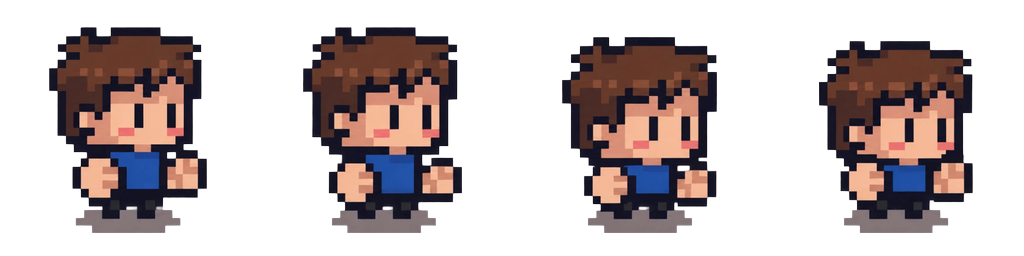
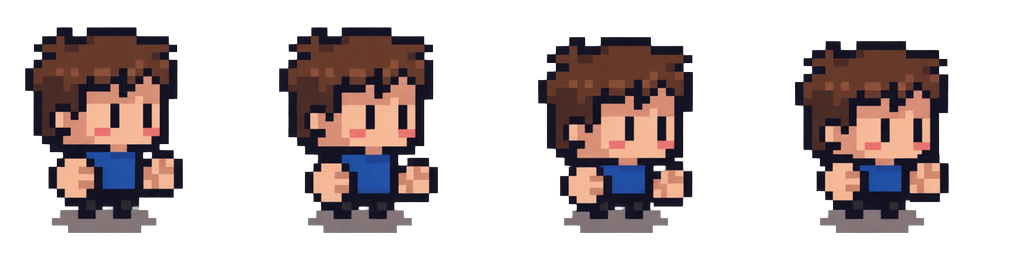
Add 3-hit melee combo (jab, jab, big swing) with its sprite sheet
Claude-Session: https://claude.ai/code/session_01CTycXSNtqEpKLb11niWLUo

diff --git a/quiz-game/server/game.js b/quiz-game/server/game.js
@@ -1,7 +1,7 @@
 // 게임 상태와 규칙. 네트워크(소켓)는 모르고, index.js가 입력을 넣고 snapshot()을 방송한다.
 // 모든 판정(이동, 충돌, 공격, 구역, 점수)은 서버가 한다.
 
-import { MAP, PHASE, READ_SEC, WAIT, zoneAt, ZONES } from '../shared/constants.js';
+import { COMBO_RESET_SEC, MAP, PHASE, READ_SEC, WAIT, zoneAt, ZONES } from '../shared/constants.js';
 
 const KNOCK_DECAY = 12; // 밀림 속도 감쇠(1/s). 총 밀림 거리 = 처음 속도 / 감쇠
 const ATTACK_ANIM_SEC = 0.25;
@@ -68,7 +68,7 @@ export class Game {
       input: { mx: 0, my: 0, run: false },
       hp: cfg.hp, stunned: false, stunUntil: 0, invUntil: 0,
       runGauge: cfg.runGauge, exhausted: false, running: false, moving: false,
-      nextAttackAt: 0, attackUntil: 0,
+      nextAttackAt: 0, attackUntil: 0, comboStep: 0, lastAttackAt: -99,
       score: 0, zone: null, zoneSince: 0,
       ai: { nextThink: 0, mx: 0, my: 0 },
     };
@@ -181,6 +181,12 @@ export class Game {
     if (this.t < p.nextAttackAt || p.stunned) return;
     if (p.running && !a.canAttackWhileRunning) return;
 
+    // 콤보: 잽 → 잽 → 큰 휘두르기. 일정 시간 공격하지 않으면 1타부터 다시
+    const combo = a.combo;
+    const step = combo && this.t - p.lastAttackAt <= COMBO_RESET_SEC ? p.comboStep : 0;
+    const m = combo?.[step] || {};
+    const range = a.range * (m.range ?? 1);
+
     let dx, dy;
     const ax = Number(aim?.x) || 0, ay = Number(aim?.y) || 0;
     if (Math.hypot(ax, ay) > 0.2) {
@@ -189,7 +195,7 @@ export class Game {
       let best = null, bestD = Infinity; // 자동 조준: 사거리 안에서 가장 가까운 상대
       for (const o of this._enemies(p)) {
         const d = Math.hypot(o.x - p.x, o.y - p.y);
-        if (d <= a.range && d < bestD) { best = o; bestD = d; }
+        if (d <= range && d < bestD) { best = o; bestD = d; }
       }
       if (best) { dx = (best.x - p.x) / bestD; dy = (best.y - p.y) / bestD; }
       else { dx = p.face; dy = 0; } // 대상이 없으면 바라보는 방향으로 헛손질
@@ -197,6 +203,8 @@ export class Game {
     if (Math.abs(dx) > 0.15) p.face = dx > 0 ? 1 : -1;
     p.nextAttackAt = this.t + a.interval;
     p.attackUntil = this.t + ATTACK_ANIM_SEC;
+    p.lastAttackAt = this.t;
+    p.comboStep = combo ? (step + 1) % combo.length : 0;
 
     // 맞는 대상 찾기
     let target = null, tDist = Infinity;
@@ -206,23 +214,23 @@ export class Game {
       if (along <= 0) continue;
       if (a.type === 'melee') {
         const d = Math.hypot(vx, vy);
-        if (d <= a.range && along / d >= 0.5 && d < tDist) { target = o; tDist = d; } // 전방 ±60도
+        if (d <= range && along / d >= 0.5 && d < tDist) { target = o; tDist = d; } // 전방 ±60도
       } else {
         const perp = Math.abs(vx * dy - vy * dx);
-        if (along <= a.range && perp <= o.cfg.radius && along < tDist) { target = o; tDist = along; }
+        if (along <= range && perp <= o.cfg.radius && along < tDist) { target = o; tDist = along; }
       }
     }
-    this.events.push({ e: 'atk', id: p.id, dx: r2(dx), dy: r2(dy), kind: a.type, len: r2(target ? tDist : a.range) });
-    if (target) this._hit(target, p, dx, dy);
+    this.events.push({ e: 'atk', id: p.id, dx: r2(dx), dy: r2(dy), kind: a.type, step, len: r2(target ? tDist : range) });
+    if (target) this._hit(target, p, dx, dy, m.dmg ?? 1, m.knockback ?? 1);
   }
 
-  _hit(target, attacker, dx, dy) {
+  _hit(target, attacker, dx, dy, dmgMul = 1, knockMul = 1) {
     const a = attacker.cfg.attack;
     if (this.t < target.invUntil) { // 무적: 피해도 밀림도 없음
       this.events.push({ e: 'block', id: target.id, x: r2(target.x), y: r2(target.y) });
       return;
     }
-    const dmg = target.stunned ? 0 : a.dmgMin + Math.floor(Math.random() * (a.dmgMax - a.dmgMin + 1));
+    const dmg = target.stunned ? 0 : Math.round((a.dmgMin + Math.floor(Math.random() * (a.dmgMax - a.dmgMin + 1))) * dmgMul);
     if (dmg > 0) {
       target.hp = Math.max(0, target.hp - dmg);
       if (target.hp === 0) {
@@ -234,8 +242,8 @@ export class Game {
     }
     // 기절(쓰러진) 상태에서는 밀리지 않음. 그 외에는 총 거리 = knockback (BU)
     if (!target.stunned) {
-      target.kx += dx * a.knockback * KNOCK_DECAY;
-      target.ky += dy * a.knockback * KNOCK_DECAY;
+      target.kx += dx * a.knockback * knockMul * KNOCK_DECAY;
+      target.ky += dy * a.knockback * knockMul * KNOCK_DECAY;
     }
     this.events.push({ e: 'hit', id: target.id, by: attacker.id, dmg, x: r2(target.x), y: r2(target.y) });
   }

diff --git a/quiz-game/src/world.js b/quiz-game/src/world.js
@@ -43,7 +43,11 @@ export class WorldScene extends Phaser.Scene {
     this.zoneTexts = [];
 
     for (const s of SPRITES) {
+      SPRITE.attackSteps.forEach((st, i) => {
+        this.anims.create({ key: `${s}-atk${i}`, frames: this.anims.generateFrameNumbers(`${s}-combo`, { frames: st.frames }), frameRate: st.fps, repeat: 0 });
+      });
       for (const [m, c] of Object.entries(SPRITE.motions)) {
+        if (!c.fps) continue; // combo는 위에서 단계별로 만들었음
         this.anims.create({
           key: `${s}-${m}`,
           frames: this.anims.generateFrameNumbers(`${s}-${m}`, { start: 0, end: c.frames - 1 }),
@@ -91,8 +95,9 @@ export class WorldScene extends Phaser.Scene {
     const now = performance.now();
     const v = this.views.get(e.id);
     if (e.e === 'atk' && v) {
-      v.sprite.play(`${v.p.s}-punch`, false);
-      v.punchUntil = now + 260;
+      const step = Math.min(e.step || 0, SPRITE.attackSteps.length - 1);
+      v.sprite.play(`${v.p.s}-atk${step}`, false);
+      v.punchUntil = now + SPRITE.attackSteps[step].ms;
       const x0 = v.x, y0 = v.y - 0.55 * BU; // 가슴 높이에서 나가는 효과
       const len = e.len * BU;
       const line = this.add.graphics().setDepth(5000);
@@ -100,7 +105,8 @@ export class WorldScene extends Phaser.Scene {
         line.lineStyle(5, 0xffd54a, 1).lineBetween(x0, y0, x0 + e.dx * len, y0 + e.dy * len);
       } else {
         const a = Math.atan2(e.dy, e.dx);
-        line.lineStyle(7, 0xffffff, 1).beginPath().arc(x0, y0, 0.9 * BU, a - 0.7, a + 0.7).strokePath();
+        const big = step === 2; // 3타 휘두르기는 더 크고 굵은 궤적
+        line.lineStyle(big ? 12 : 7, 0xffffff, 1).beginPath().arc(x0, y0, (big ? 1.3 : 0.9) * BU, a - (big ? 1.0 : 0.7), a + (big ? 1.0 : 0.7)).strokePath();
       }
       this.tweens.add({ targets: line, alpha: 0, duration: 140, onComplete: () => line.destroy() });
     } else if (e.e === 'hit' && v) {

diff --git a/quiz-game/shared/constants.js b/quiz-game/shared/constants.js
@@ -36,13 +36,20 @@ export function zoneAt(type, x, y) {
 // 스프라이트 모션별 프레임 수 (tools/build_sheets.py 결과와 일치해야 함)
 export const SPRITE = {
   cell: 256,
-  anchor: [128, 232], // 셀 안의 발(그림자) 위치
+  anchor: [104, 232], // 셀 안의 발(그림자) 위치 (오른쪽에 주먹이 뻗을 공간을 남기려고 왼쪽으로 치우침)
   motions: {
     idle: { frames: 4, fps: 6, yoyo: true, loop: true },
     walk: { frames: 7, fps: 12, loop: true },
     run: { frames: 7, fps: 15, loop: true },
-    punch: { frames: 7, fps: 28, loop: false },
+    combo: { frames: 8 }, // 공격 시트: 아래 attackSteps로 나눠서 재생
   },
+  // 근접 3타 콤보: 잽 → 잽 → 반대 주먹으로 크게 휘두르기 (combo 시트의 프레임 번호)
+  attackSteps: [
+    { frames: [0, 1], fps: 12, ms: 260 },
+    { frames: [2, 3], fps: 12, ms: 260 },
+    { frames: [4, 5, 6, 7], fps: 14, ms: 340 },
+  ],
 };
+export const COMBO_RESET_SEC = 1.0; // 이 시간 동안 공격하지 않으면 다시 1타부터
 
 export const PHASE = { LOBBY: 'lobby', READING: 'reading', MOVING: 'moving', REVEAL: 'reveal' };

diff --git a/quiz-game/demo/main.js b/quiz-game/demo/main.js
@@ -7,9 +7,9 @@ import { PHASE } from '../shared/constants.js';
 import idle from '../public/characters/blue/idle.png';
 import walk from '../public/characters/blue/walk.png';
 import run from '../public/characters/blue/run.png';
-import punch from '../public/characters/blue/punch.png';
+import combo from '../public/characters/blue/combo.png';
 
-hooks.spriteUrl = (_s, m) => ({ idle, walk, run, punch })[m];
+hooks.spriteUrl = (_s, m) => ({ idle, walk, run, combo })[m];
 
 const $ = (s) => document.querySelector(s);
 const ME = 'me';

diff --git a/quiz-game/tools/build_sheets.py b/quiz-game/tools/build_sheets.py
@@ -15,24 +15,27 @@ import numpy as np
 from PIL import Image
 
 CELL = 256              # 출력 셀 크기 (정사각형)
-ANCHOR = (128, 232)     # 셀 안에서 그림자 중심(x)과 그림자 바닥(y)이 놓일 위치
+ANCHOR = (104, 232)     # 셀 안에서 그림자 중심(x)과 그림자 바닥(y)이 놓일 위치
 TARGET_SHADOW_W = 104   # 통일할 그림자 폭(px)
 
-# 모션 이름 → (원본 파일, 마지막 프레임 제외 여부)
+# 모션 이름 → (원본 파일, 마지막 프레임 제외 여부, 여러 줄 격자 여부)
+# combo: 잽, 잽, 큰 휘두르기 3타 콤보 (2줄 x 4칸, 왼쪽 위부터 오른쪽으로 읽음)
 STRIPS = {
-    "idle": ("idle.webp", False),
-    "walk": ("walk.webp", True),
-    "run": ("run.webp", True),
-    "punch": ("punch.webp", True),
+    "idle": ("idle.webp", False, False),
+    "walk": ("walk.webp", True, False),
+    "run": ("run.webp", True, False),
+    "combo": ("combo.png", False, True),
 }
 
 
 def load_rgba(path: Path) -> np.ndarray:
     a = np.array(Image.open(path).convert("RGBA"))
     a[..., 3] = np.where(a[..., 3] < 16, 0, a[..., 3])
+    if (a[..., 3] < 250).mean() > 0.05:
+        return a  # 이미 투명 배경인 원본은 그대로 사용 (밝은 이펙트를 지우지 않도록)
     rgb = a[..., :3].astype(int)
     # 흰 배경 제거: 세 채널이 모두 매우 밝은 픽셀
-    white = rgb.min(axis=2) >= 225
+    white = (rgb.min(axis=2) >= 225) & (a[..., 3] > 0)
     a[..., 3] = np.where(white, 0, a[..., 3])
     # 가장자리의 밝은 회색 잔상(흰 배경과 섞인 픽셀) 2픽셀 제거
     for _ in range(2):
@@ -49,18 +52,33 @@ def load_rgba(path: Path) -> np.ndarray:
     return a
 
 
-def split_frames(a: np.ndarray):
-    mask = a[..., 3] > 128
-    cols = mask.any(axis=0)
+def _runs(flags, merge_gap=0):
     runs, start = [], None
-    for x, v in enumerate(cols):
+    for i, v in enumerate(flags):
         if v and start is None:
-            start = x
+            start = i
         if not v and start is not None:
-            runs.append((start, x - 1)); start = None
+            runs.append([start, i - 1]); start = None
     if start is not None:
-        runs.append((start, len(cols) - 1))
-    return runs
+        runs.append([start, len(flags) - 1])
+    merged = []
+    for r in runs:  # 가까이 떨어진 조각(타격 이펙트 등)은 한 프레임으로 합침
+        if merged and r[0] - merged[-1][1] <= merge_gap:
+            merged[-1][1] = r[1]
+        else:
+            merged.append(r)
+    return [tuple(r) for r in merged]
+
+
+def split_frames(a: np.ndarray, grid: bool = False):
+    """프레임 영역 (y0, y1, x0, x1) 목록. grid면 줄 단위로 나눈 뒤 왼쪽→오른쪽 순서."""
+    mask = a[..., 3] > 128
+    bands = _runs(mask.any(axis=1), merge_gap=12) if grid else [(0, mask.shape[0] - 1)]
+    out = []
+    for y0, y1 in bands:
+        for x0, x1 in _runs(mask[y0:y1 + 1].any(axis=0), merge_gap=10 if grid else 0):
+            out.append((y0, y1, x0, x1))
+    return out
 
 
 def shadow_info(frame: np.ndarray):
@@ -84,14 +102,14 @@ def shadow_info(frame: np.ndarray):
 def main(src_dir: Path, out_dir: Path):
     out_dir.mkdir(parents=True, exist_ok=True)
     meta = {"cell": CELL, "anchor": list(ANCHOR), "sheets": {}}
-    for name, (fname, drop_last) in STRIPS.items():
+    for name, (fname, drop_last, grid) in STRIPS.items():
         a = load_rgba(src_dir / fname)
-        runs = split_frames(a)
+        boxes = split_frames(a, grid)
         if drop_last:
-            runs = runs[:-1]
+            boxes = boxes[:-1]
         frames = []
-        for x0, x1 in runs:
-            sub = a[:, x0:x1 + 1]
+        for y0, y1, x0, x1 in boxes:
+            sub = a[y0:y1 + 1, x0:x1 + 1]
             ys = np.where((sub[..., 3] > 128).any(axis=1))[0]
             sub = sub[ys.min():ys.max() + 1]
             frames.append(sub)
@@ -102,11 +120,13 @@ def main(src_dir: Path, out_dir: Path):
             im = Image.fromarray(f)
             nw, nh = max(1, round(im.width * scale)), max(1, round(im.height * scale))
             im = im.resize((nw, nh), Image.LANCZOS)
-            px = ANCHOR[0] - round(cx * scale) + i * CELL
+            px = ANCHOR[0] - round(cx * scale)
             py = ANCHOR[1] - round(by * scale)
-            if px < i * CELL or px + nw > (i + 1) * CELL or py < 0:
-                print(f"경고: {name} 프레임 {i}이 셀을 벗어납니다 ({px - i * CELL},{py},{nw}x{nh})")
-            sheet.paste(im, (px, py), im)
+            if px < 0 or px + nw > CELL or py < 0:
+                print(f"참고: {name} 프레임 {i}이 셀 밖으로 {max(0, -px, px + nw - CELL)}px 나가 잘립니다")
+            cell = Image.new("RGBA", (CELL, CELL), (0, 0, 0, 0))  # 옆 칸으로 번지지 않게 셀 안에서만 합성
+            cell.paste(im, (px, py), im)
+            sheet.paste(cell, (i * CELL, 0))
         sheet.save(out_dir / f"{name}.png")
         meta["sheets"][name] = {"frames": len(frames), "scale": round(scale, 3)}
         print(f"{name}: {len(frames)} frames, scale {scale:.3f}")
